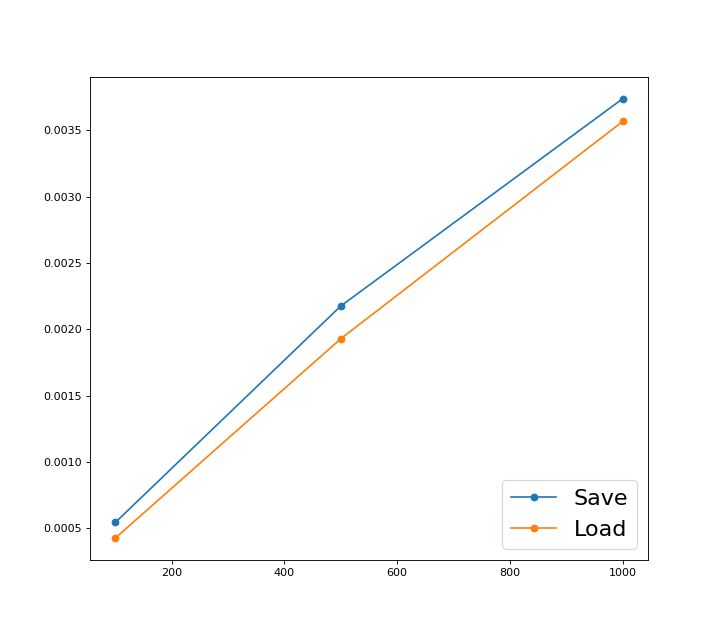
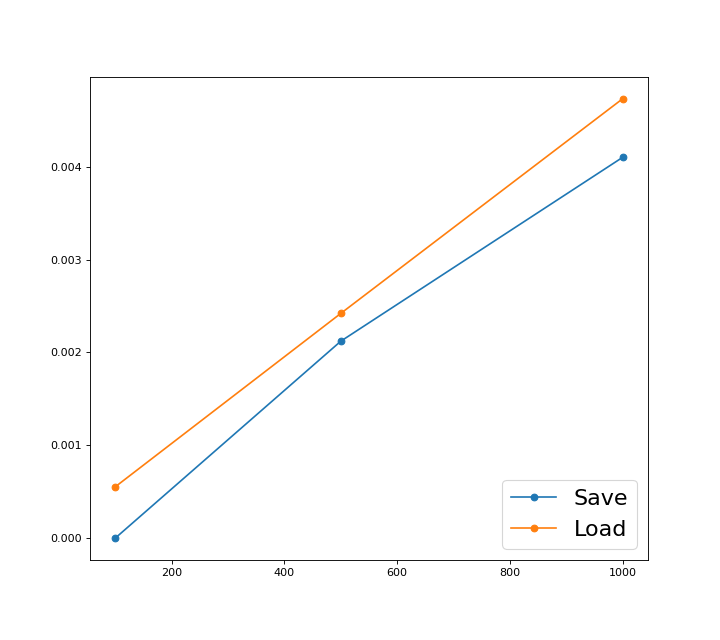
передел

diff --git a/main.cpp b/main.cpp
@@ -15,22 +15,16 @@ TEST_CASE("Persistent world")
 std::vector<planet> for_save_planet_game;
 adventurer for_save_player;
 play(0, for_save_player, for_save_planet_game, 100);
-std::vector<planet> for_load_planet_game;
-adventurer for_load_player;
+
 
 std::vector<planet> for_save_planet_game1;
 adventurer for_save_player1;
 play(0, for_save_player1, for_save_planet_game1, 500);
 
-std::vector<planet> for_load_planet_game1;
-adventurer for_load_player1;
-
 
 std::vector<planet> for_save_planet_game2;
 adventurer for_save_player2;
 play(0, for_save_player2, for_save_planet_game2, 1000);
-std::vector<planet> for_load_planet_game2;
-adventurer for_load_player2;
 
 
 BENCHMARK("Save 100") {
@@ -38,6 +32,8 @@ BENCHMARK("Save 100") {
 };
 
 BENCHMARK("Load 100") {
+    std::vector<planet> for_load_planet_game;
+    adventurer for_load_player;
     return load_game(for_load_player, for_load_planet_game);
 };
 BENCHMARK("Save 500") {
@@ -45,6 +41,8 @@ BENCHMARK("Save 500") {
 };
 
 BENCHMARK("Load 500") {
+    std::vector<planet> for_load_planet_game1;
+    adventurer for_load_player1;
     return load_game(for_load_player1, for_load_planet_game1);
 };
 
@@ -53,46 +51,52 @@ BENCHMARK("Save 1000") {
 };
 
 BENCHMARK("Load 1000") {
+    std::vector<planet> for_load_planet_game2;
+    adventurer for_load_player2;
     return load_game(for_load_player2, for_load_planet_game2);
 };
 }
 
 int main()
 {
+
+//////////////////////////////////////
+
 std::cout<< "Let's play!" << std::endl;
-{
-    Catch::Session session;
-    int numFailed = session.run();
 
-    std::vector<planet> planet_game;
-    adventurer player;
 
-    int k=-2;
-    while(std::cout << "Нажмите 0 новой игры; 1 загрузки; -1 выход: ", !(std::cin >> k) || k >1 || k <-1 )
-    {
-        clear_for_cin();
-    }
-    if(k == 0)
-    {
-        play(k, player, planet_game); // new game
-    }
-    else
-    {
-    if(k == 1)
-    {
-    load_game(player, planet_game);
+Catch::Session session;
+int numFailed = session.run();
 
-    std::cout<< "UX get_current_planet " << player.get_current_planet() <<std::endl;
-    std::cout<< "tp on planet: "<< planet_game[is_planet_unique(player.get_current_planet(), planet_game)].get_number_of_portals() << std::endl;
-    planet_game[is_planet_unique(player.get_current_planet(), planet_game)].print_whereTO_portals();
-    play(k, player, planet_game);
+//std::vector<planet> planet_game;
+//adventurer player;
 
-    // продолжить игру
-    }
-    else
-        return 0; // выход
-    }
-}
+//int k=-2;
+//while(std::cout << "Нажмите 0 новой игры; 1 загрузки; -1 выход: ", !(std::cin >> k) || k >1 || k <-1 )
+//{
+//    clear_for_cin();
+//}
+//if(k == 0)
+//{
+//    play(k, player, planet_game); // new game
+//}
+//else
+//{
+//if(k == 1)
+//{
+//load_game(player, planet_game);
 
+//std::cout<< "UX get_current_planet " << player.get_current_planet() <<std::endl;
+//std::cout<< "tp on planet: "<< planet_game[is_planet_unique(player.get_current_planet(), planet_game)].get_number_of_portals() << std::endl;
+//planet_game[is_planet_unique(player.get_current_planet(), planet_game)].print_whereTO_portals();
+//play(k, player, planet_game);
+
+//// продолжить игру
+//}
+//else
+//    return 0; // выход
+//}
+
+//////////////////////////////////////
 return 0;
 }
